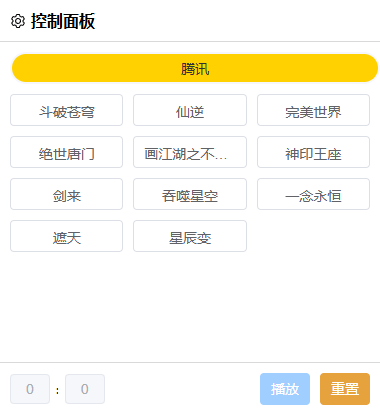
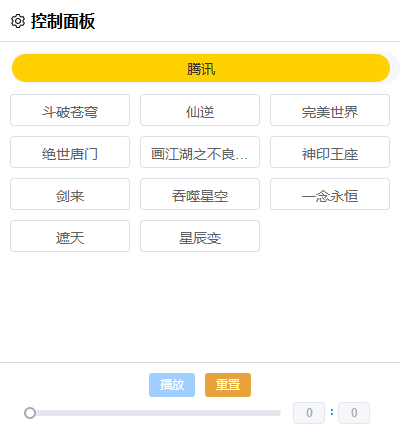
feat: 支持进度条拖拽

diff --git a/src/components/popup.vue b/src/components/popup.vue
@@ -8,15 +8,34 @@ import VideoList from './video-list.vue'
 
 const prefix = 'crx-popup'
 const playLoading = ref(false)
-const popupStore = usePopupStore()
-const { selectedVideoId, selectedEpisode, timerTime } = storeToRefs(popupStore)
-
-popupStore.getVideos()
+const store = usePopupStore()
+const { selectedVideoId, selectedEpisode, timerTime } = storeToRefs(store)
 
 chrome.runtime.onMessage.addListener(async (message, sender) => {
   chrome.tabs.query({ active: true, currentWindow: true }, ([tab]) => {
     if (message.type === 'time' && sender.tab?.id === tab?.id) {
       timerTime.value = message.time || 0
+    }
+  })
+})
+
+store.getVideos().then(() => {
+  sendMsgToContent({
+    type: 'init',
+  }, async (message) => {
+    if (!message.videoId) {
+      return
+    }
+
+    selectedVideoId.value = message.videoId
+    const episodes = await store.getVideoEpisode(message.videoId)
+
+    if (episodes?.length) {
+      const episode = episodes.find(episode => episode.vid === message.vid)
+
+      if (episode) {
+        selectedEpisode.value = episode
+      }
     }
   })
 })
@@ -27,7 +46,7 @@ const time = reactive({
 })
 
 const maxTime = computed(() => {
-  const max = { minus: 999, second: 59 }
+  const max: Record<string, number | undefined> = { minus: undefined, second: 59, duration: 60 * 60 }
 
   if (!selectedEpisode.value) {
     return max
@@ -35,6 +54,7 @@ const maxTime = computed(() => {
 
   const { duration } = selectedEpisode.value
   max.minus = Math.ceil(Number(duration) / 60)
+  max.duration = Number(duration)
 
   return max
 })
@@ -43,6 +63,17 @@ watch(timerTime, () => {
   time.minute = Math.floor(timerTime.value / 60)
   time.second = timerTime.value % 60
 })
+
+function formatTooltip(_: number) {
+  return `${time.minute} : ${time.second}`
+}
+
+function handleTimeChange() {
+  sendMsgToContent({
+    type: 'changeTime',
+    time: timerTime.value,
+  })
+}
 
 function handleMinuteChange(val?: number) {
   time.minute = val ?? 0
@@ -70,6 +101,7 @@ function playBarrages() {
   playLoading.value = true
   sendMsgToContent({
     type: 'play',
+    videoId: selectedVideoId.value,
     vid,
     duration,
   }, (_) => {
@@ -95,40 +127,54 @@ function playBarrages() {
       </Transition>
     </div>
     <div :class="`${prefix}__control`">
-      <div :class="`${prefix}__timer`">
-        <el-input-number
-          :model-value="time.minute"
-          :controls="false"
-          :max="maxTime.minus"
-          :min="0"
-          :disabled="!selectedEpisode"
-          @change="handleMinuteChange"
-        />
-        <span>:</span>
-        <el-input-number
-          :model-value="time.second"
-          :controls="false"
-          :max="maxTime.second"
-          :min="0"
-          :disabled="!selectedEpisode"
-          @change="handleSecondChange"
-        />
-      </div>
       <div :class="`${prefix}__buttons`">
         <el-button
-          type="primary"
           :disabled="!selectedEpisode"
           :loading="playLoading"
+          type="primary"
+          size="small"
           @click="playBarrages"
         >
           播放
         </el-button>
         <el-button
           type="warning"
+          size="small"
           @click="sendMsgToContent({ type: 'reset' })"
         >
           重置
         </el-button>
+      </div>
+      <div :class="`${prefix}__timer`">
+        <el-slider
+          v-model="timerTime"
+          :min="0"
+          :max="maxTime.duration"
+          :disabled="!selectedEpisode"
+          :format-tooltip="formatTooltip"
+          @change="handleTimeChange"
+        />
+        <div style="display: flex;">
+          <el-input-number
+            :model-value="time.minute"
+            :controls="false"
+            :max="maxTime.minus"
+            :min="0"
+            :disabled="!selectedEpisode"
+            size="small"
+            @change="handleMinuteChange"
+          />
+          <span style="margin: 0 5px;">:</span>
+          <el-input-number
+            :model-value="time.second"
+            :controls="false"
+            :max="maxTime.second"
+            :min="0"
+            :disabled="!selectedEpisode"
+            size="small"
+            @change="handleSecondChange"
+          />
+        </div>
       </div>
     </div>
   </div>
@@ -171,24 +217,33 @@ function playBarrages() {
 
   &__control {
     display: flex;
+    flex-direction: column;
     align-items: center;
-    justify-content: space-between;
-    gap: 10px;
     border-top: 1px solid rgba(0, 0, 0, 15%);
-    padding: 10px;
+    padding: 10px 30px;
+
+    .el-slider__button {
+      width: 12px;
+      height: 12px;
+    }
   }
 
   &__timer {
     display: flex;
     align-items: center;
-    gap: 6px;
+    gap: 12px;
+    width: 100%;
 
     .el-input__wrapper {
       padding: 0 5px !important;
     }
 
     .el-input-number {
-      width: 2.5rem;
+      width: 2rem;
+    }
+
+    .el-input__inner {
+      font-size: 12px;
     }
   }
 

diff --git a/src/components/barrage.vue b/src/components/barrage.vue
@@ -11,7 +11,8 @@ let timer: number | null = null
 const prefix = 'crx-barrage'
 const dialog = ref<HTMLElement>()
 const barrageEl = ref<HTMLElement>()
-const selectedVId = ref('')
+const selectedVId = ref('') // 视频的id
+const selectedVideoId = ref('') // 整个视频系列的id
 const mediaDuration = ref(0)
 const fakeMedia = reactive<HTMLMediaElement>({
   // 伪造 video elements
@@ -107,7 +108,7 @@ function destroyDanmaku(resetPlayer = true) {
 chrome.runtime.onMessage.addListener(async (message, _, sendResponse) => {
   switch (message.type) {
     case 'play': {
-      const { vid, duration } = message
+      const { vid, duration, videoId } = message
       const minus = Number(duration) / 60
 
       if (typeof minus !== 'number')
@@ -115,6 +116,7 @@ chrome.runtime.onMessage.addListener(async (message, _, sendResponse) => {
 
       await store.getBarrages(vid, Math.ceil(minus))
 
+      selectedVideoId.value = videoId
       selectedVId.value = vid
       mediaDuration.value = duration
 
@@ -142,6 +144,10 @@ chrome.runtime.onMessage.addListener(async (message, _, sendResponse) => {
     }
     case 'changeTime': {
       fakeMedia.currentTime = message.time
+      break
+    }
+    case 'init': {
+      sendResponse({ vid: selectedVId.value, videoId: selectedVideoId.value })
       break
     }
   }

diff --git a/src/store/popup.ts b/src/store/popup.ts
@@ -50,11 +50,13 @@ export const usePopupStore = defineStore('popupStore', () => {
 
   async function getVideoEpisode(id: Video['id'], disableCache = false) {
     if (episodesMap.value[id] && !disableCache)
-      return
+      return []
 
     const response = await getEpisodes(id)
 
     episodesMap.value[id] = response.data
+
+    return response.data
   }
 
   return {

diff --git a/README.md b/README.md
@@ -4,12 +4,15 @@
 
 目前弹幕服务暂无在公网部署，需自行在本地启动弹幕服务，[仓库地址](https://github.com/moyu-king/barrage-service)。
 
-插件面板截图：
+#### 1. 使用：
+[下载压缩包](https://github.com/moyu-king/barrage-service/releases)，解压完后，在chrome的拓展程序界面点击**加载已解压的扩展程序**，并选中解压后的文件夹。（需请先勾选开发者模式）
 
-![视频列表](/images//video-list.jpg)
+#### 2. 插件面板截图：
 
-![剧集列表](/images//episode-list.jpg)
+![视频列表](/images/video-list.jpg)
 
-![弹幕](/images//barrage.jpg)
+![剧集列表](/images/episode-list.jpg)
 
-> 目前仅支持腾讯视频
+![弹幕](/images/barrage.jpg)
+
+> 目前仅支持腾讯视频，bilibili正在计划中
